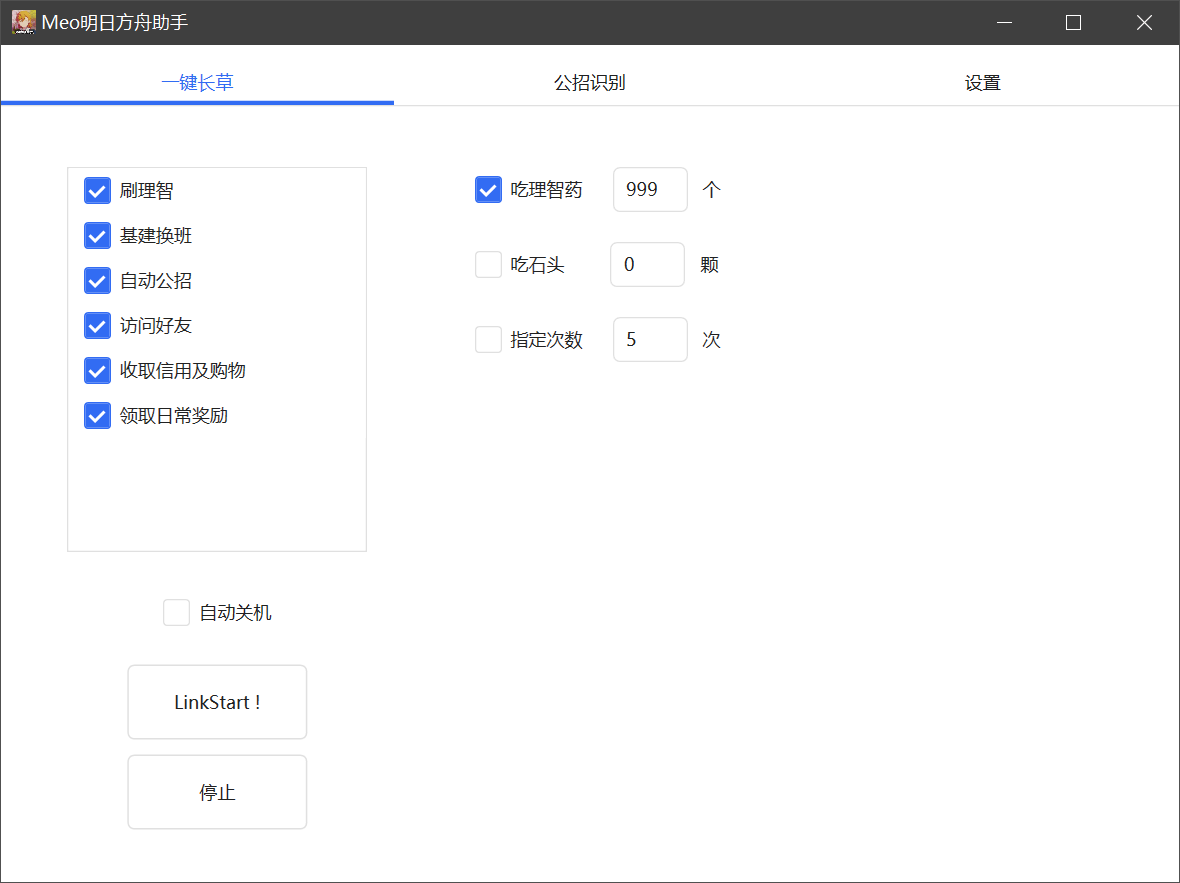
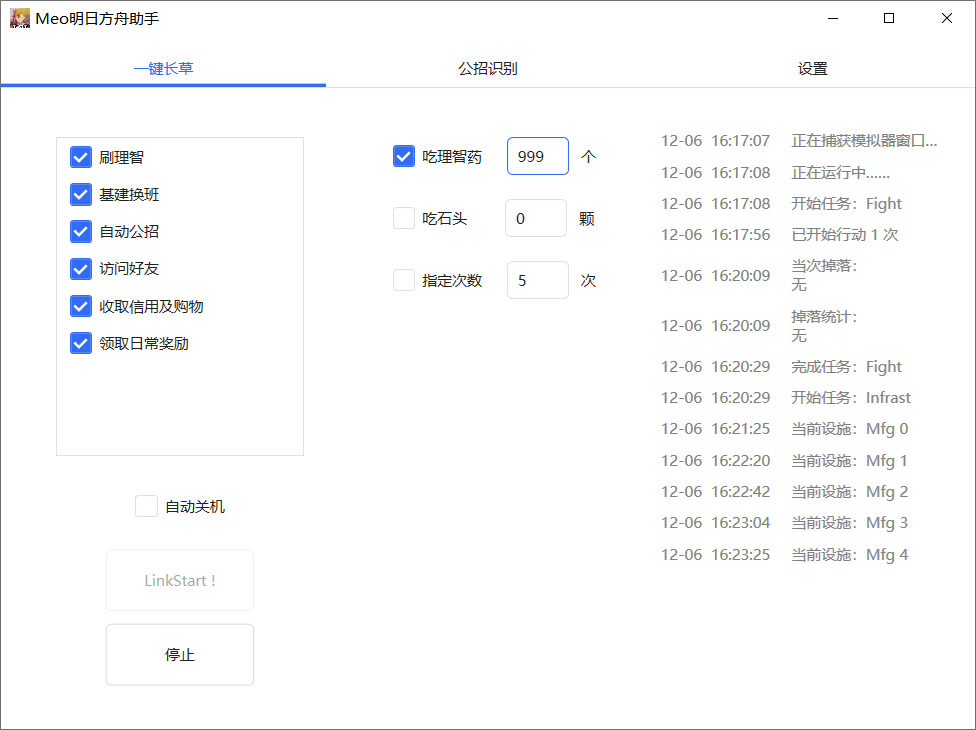
docs.更新README，更新版本号
Former-commit-id: 9efdc4d6f8137cf4ad1691379df55c60908a676b

diff --git a/src/MeoAsstGui/UserControl/AutoRecruitSettingsUserControl.xaml b/src/MeoAsstGui/UserControl/AutoRecruitSettingsUserControl.xaml
@@ -16,7 +16,7 @@
             <CheckBox IsChecked="{Binding RefreshLevel3}" Content="自动刷新3星Tags" VerticalAlignment="Center" Margin="10" />
             <StackPanel Orientation="Horizontal" HorizontalAlignment="Center" VerticalAlignment="Center" Margin="0, 10">
                 <TextBlock Style="{StaticResource TextBlockDefault}"
-                   Text="每次执行时&#xA;的招募次数" Margin="5" VerticalAlignment="Center" />
+                   Text="每次执行时&#xA;最大招募次数" Margin="5" VerticalAlignment="Center" />
                 <TextBox Text="{Binding RecruitMaxTimes}" Margin="5"
                      Width="50" InputMethod.IsInputMethodEnabled="False" />
             </StackPanel>

diff --git a/src/MeoAssistance/Version.h b/src/MeoAssistance/Version.h
@@ -2,5 +2,5 @@
 
 namespace asst
 {
-    constexpr static const char* Version = "v2.2";
+    constexpr static const char* Version = "v2.2.1";
 }

diff --git a/README.md b/README.md
@@ -21,6 +21,10 @@ A game assistance for Arknights
 纯图像识别，非内存挂，全图形化界面，兼容模拟器和安卓设备，开罐即食，绝赞开发中！✿✿ヽ(°▽°)ノ✿  
 <br>
 
+## 功能介绍
+
+废话不多说，看图！
+
 ![界面截图1](images/gui.png)
 ![界面截图2](images/settings1.png)
 ![界面截图3](images/settings2.png)
@@ -29,51 +33,6 @@ A game assistance for Arknights
 
 [稳定版](https://github.com/MistEO/MeoAssistance/releases/latest)  
 [测试版](https://github.com/MistEO/MeoAssistance/releases)
-
-## 功能介绍
-
-- **全自动基建换班（新功能！）**
-    - 自动识别干员技能，自动计算设施内最优解并换班！
-    - 支持如`巫恋组`、`温蒂组`等等所有单设施内组合
-    - 自动识别干员心情并入驻宿舍
-    - 可设置自动使用无人机给制造站/贸易站加速
-    - 可识别赤金、经验书、搓玉，分别使用不同的干员组合
-    - `迷迭香`等跨设施体系正在开发中！
-- 自动刷理智
-    - 支持刷完自动上传[企鹅物流数据统计](https://penguin-stats.cn/)
-    - 支持企鹅物流自定义ID
-    - 界面支持统计掉落数量
-    - 可设置是否吃完理智药及数量
-    - 可设置是否吃石头及数量
-    - 可设置刷的次数（用来刷剿灭啥的）
-    - 可设置刷完自动关机
-    - 支持剿灭模式
-    - 支持打完升级了的情况
-    - 支持代理失败的情况，会自动放弃本次行动
-    - 支持刷完自动截图
-    - 支持掉线后重连，继续刷上次的图
-    - 支持凌晨4点更新后重连，继续刷上次的图
-- 公开招募识别
-    - 自动识别当前招募页所有Tags
-    - 自动计算可能出的干员组合并显示
-    - 自动帮你点击最优解Tags
-    - 自动帮你点击时间9小时
-    - 出5、6星干员弹窗提示
-    - 最新版本已支持2.5新增的`阿`等干员
-- 自动访问好友
-    - 访问完了还会贴心的帮你点进信用商店~
-    - 可设置访问完自动买信用商店的材料
-- 其他优势
-    - 所有点击操作，都是点击按钮内随机位置，并模拟泊松分布（按钮偏中间位置点的概率大，越往旁边点到的概率越小）
-    - 刷理智及访问好友的点击操作，支持设置随机延时，没有封号风险~
-    - 底层算法纯C++开发，并设计了多重的缓存技术，最大限度降低CPU和内存占用
-    - 模拟器窗口可以被遮挡、可以最小化、甚至可以老板键隐藏！即使全屏看视频、玩游戏，也完全不影响软件运行
-    - 软件支持自动更新✿✿ヽ(°▽°)ノ✿
-- 支持多款主流模拟器
-- 兼容安卓手机（USB调试、无线调试）
-- 兼容非16:9分辨率：包括宽屏、方屏，也兼容在游戏设置中的异形屏适配（基建换班功能除外，正在适配中）。但仍推荐使用16:9分辨率
-- 自适应分辨率及屏幕缩放
-- 未来更多功能见[Todo](#Todo)
 
 ### 模拟器支持
 
@@ -85,13 +44,6 @@ A game assistance for Arknights
 
 完美支持。需要在模拟器`设定`-`进阶`中打开`Android调试桥`
 
-#### 蓝叠模拟器Hyper-V版本
-
-支持。
-
-1. 需要在模拟器`设定`-`进阶`中打开`Android调试桥`
-2. 需要在软件`设置`-`连接设置`中添加蓝叠安装目录下`bluestacks.conf`文件的完整路径
-
 #### 夜神模拟器
 
 完美支持
@@ -102,7 +54,7 @@ A game assistance for Arknights
 
 #### 雷电模拟器
 
-勉强支持，雷电总有莫名其妙的问题，可以试试看，不保证能用（
+勉强支持。雷电总有莫名其妙的问题，可以试试看，不保证能用（
 
 #### 逍遥模拟器
 
@@ -110,36 +62,56 @@ A game assistance for Arknights
 
 #### 腾讯手游助手
 
-不支持，新版本的腾讯好像也是自研引擎了，没开放ADB端口。但是测试是能响应Win32 Api的，有需求再做
+不支持。新版本的腾讯好像也是自研引擎了，没开放ADB端口；但是测试是能响应Win32 Api的，有需求再做
 
 #### MuMu手游助手（星云引擎）  
 
-不支持，星云引擎这个版本不支持adb控制，甚至不响应Win32 Api鼠标消息，无解_(:з」∠)_
+不支持。星云引擎这个版本不支持adb控制，甚至不响应Win32 Api鼠标消息，无解_(:з」∠)_
 
-#### 其他模拟器
+#### Win11 WSA
 
-若有其他需要，欢迎给我提[ISSUE](https://github.com/MistEO/MeoAssistance/issues)，会根据情况尽量适配~
+不支持，WSA 目前没有实现 AOSP screencap 需要的接口，无法进行截图。等微软支持后会尝试适配
 
-#### 安卓手机/平板
+#### 蓝叠模拟器Hyper-V版本
 
-部分功能支持，正在开发中……  
-需要下载[谷歌官方ADB](https://dl.google.com/android/repository/platform-tools-latest-windows.zip)，将`platform-tools`文件夹解压到`MeoAsstGui.exe`的同级目录
+支持
+
+1. 在模拟器`设定`-`进阶`中打开`Android调试桥`
+2. 下载[ADB](https://dl.google.com/android/repository/platform-tools-latest-windows.zip)，将`platform-tools`文件夹解压到`MeoAsstGui.exe`的同级目录
+3. 在软件`设置`-`连接设置`中填写蓝叠安装目录下`bluestacks.conf`文件的完整路径
+
+#### 其他模拟器、安卓手机/平板、自定义设备
+
+部分支持
+
+- 下载[ADB](https://dl.google.com/android/repository/platform-tools-latest-windows.zip)，将`platform-tools`文件夹解压到`MeoAsstGui.exe`的同级目录
+- 进入软件`设置`-`连接设置`，填写自定义地址（需要填写IP+端口，例如`127.0.0.1:5555`）
+- 目前非`16:9`分辨率下，刷理智、访问好友、信用商店、公招识别、领任务等功能已初步可用；基建功能暂不可用，正在进一步适配中。但仍推荐使用16:9分辨率，经过的测试验证最多，也最稳定。
 
 ## 使用说明
 
 ### 基本说明
 
-1. 根据上面模拟器支持情况，进行对应的`ADB`相关操作
+1. 根据上面模拟器支持情况，进行对应的操作
 2. 解压压缩包，到**没有中文或特殊符号**的文件夹路径
-3. 第一次运行软件，**请使用管理员权限**打开`MeoAsstGui.exe`。运行过一次后，后续不再需要管理员权限（之后的版本会尝试完全去掉管理员权限）
+3. 第一次运行软件，**请使用管理员权限**打开`MeoAsstGui.exe`。运行过一次后，后续不再需要管理员权限
 4. 开始运行后，所有设置均不可再修改
-5. 运行期间，模拟器窗口可以最小化，全屏玩游戏、看视频等，完全不影响
 
-目前非16:9分辨率下，刷理智、访问好友、公招识别已初步可用，基建功能暂不可用，后期将逐步优化。但仍推荐使用16:9分辨率，经过的测试验证最多，也最稳定。
+### 刷理智
 
-### Tips
-
-若明日方舟处于**蓝色开始按钮**界面，则会刷当前关卡。否则会前往上一次作战的关卡！（自动选关功能正在开发中
+- 若游戏处于**蓝色开始按钮**界面，则会刷当前关卡。否则会前往上次作战的关卡！
+- 主界面上的`吃理智`、`吃石头`、`指定次数`三个选项为短路开关，即三个选项中的任一条件达到，均会视为任务完成，停止刷理智。
+    - 举例1：设置`吃理智药`:`999`、`吃石头`:`10`、`指定次数`:`1`。则在刷完**一次**后，由于满足了`指定次数`:`1`的条件，视为任务完成，停止刷理智。
+    - 举例2：不勾选`吃理智药`、不勾选`吃石头`，设置`指定次数`:`100`。则在当前可用理智全部刷完后（可能只刷了几次），由于满足了`不吃理智药`、`不吃石头`的条件，视为任务完成，停止刷理智。
+- 其他优势
+    - 支持刷完自动上传[企鹅物流数据统计](https://penguin-stats.cn/)
+    - 支持企鹅物流自定义ID
+    - 支持统计掉落数量
+    - 支持剿灭模式
+    - 支持打完升级了的情况
+    - 支持代理失败的情况，会自动放弃本次行动
+    - 支持掉线后重连，继续刷上次的图
+    - 支持凌晨4点更新后重连，继续刷上次的图
 
 ### 基建换班
 
@@ -149,32 +121,35 @@ A game assistance for Arknights
 
 #### 宿舍入驻心情阈值
 
-计算心情进度条的百分比；心情小于该阈值的干员，不会再去上班，直接进驻宿舍
+识别心情进度条的百分比；心情小于该阈值的干员，不会再去上班，直接进驻宿舍
 
 #### 特殊说明
 
-- 基建换班目前均为单设施最优解，但非跨设施的全局最优解，例如`迷迭香`这类多个设施间联动的体系，都是不支持的
+- 基建换班目前均为单设施最优解，但非跨设施的全局最优解。例如：`巫恋 龙舌兰`、`红云 稀音`等这类单设施内的组合，都是可以正常识别并使用的；`迷迭香`、`红松骑士团`这类多个设施间联动的体系，目前都是不支持的
 - 会客室仅缺一个线索时，会选择对应流派的干员；否则会选择通用干员
+- 会客室暂不支持送出线索，当线索满时可能会处理异常。建议自动换班完成后自己再去看下会客室的情况
 - 控制中枢策略太过复杂，目前只考虑`阿米娅`、`诗怀雅`、`凯尔希`、`彩虹小队`及其他心情+0.05的干员，后续逐步优化
+
+### 信用商店随缘买
+
+从左到右依次买，但不会买`碳`和`家具零件`。有需要的同学可自行修改`resource\tasks.json`中`CreditShop-NotToBuy`.`text`字段，自定义不买的物品。后续版本会尝试开放界面选项
 
 ### 公开招募识别
 
-**请注意：公招识别和自动公招是两个独立的功能！**
+- 公招识别和自动公招是两个独立的功能！
+- 公招识别需要手动打开有公招Tag选择的界面再使用
 
-1. 明日方舟打开公开招募，有Tag选择的界面
-2. 软件勾选你需要的选项，点击"开始识别"
-3. 请检查识别结果是否正确，自行判断是否确定开始招募
+### 其他乱七八糟的说明
 
-### 连接自定义模拟器端口，或安卓手机/平板
-
-1. 下载[ADB程序](https://dl.google.com/android/repository/platform-tools-latest-windows.zip)，将`platform-tools`文件夹解压到`MeoAsstGui.exe`的同级目录
-2. 使用USB有线连接安卓手机和电脑
-3. 请在手机`设置`-`开发者选项`中打开`USB调试`、`USB调试（安全设置）`两个选项。具体操作方式不同品牌手机各不相同，请自行百度查询
-4. 请手动修改`resource\config.json`文件中：
-    1. `options`.`connectType`字段值为`1`
-    2. `emulator`.`Custom`.`adb`.`addresses`字段填写为要连接的地址，请注意这是个数组，会以此尝试所有的（若不填写，或`addresses`中所有的都没连上，则会使用`adb devices`自动查找）
-
-目前非16:9分辨率下，刷理智、访问好友、公招识别已初步可用，基建功能暂不可用，后期将逐步优化。但仍推荐使用16:9分辨率，经过的测试验证最多，也最稳定。
+- 公招出5、6星会有弹窗提示
+- 主界面上要执行的任务，是可以拖动改变顺序的。同样设置中基建换班的顺序，也是可以拖动改变的
+- 活动关卡掉落识别到的`未知材料`，一般就是活动商店的票据
+- 新的活动关卡刚上线的时候可能无法正常识别，一般一两天内软件会自动OTA更新资源，更新后即可正常识别
+- 所有点击操作，都是点击按钮内随机位置，并模拟泊松分布（按钮偏中间位置点的概率大，越往旁边点到的概率越小）
+- `resource\config.json`中有一些自定义选项，可以尝试根据自己的需要进行修改
+- 底层算法纯C++开发，并设计了多重的缓存技术，最大限度降低CPU和内存占用
+- 软件支持自动更新✿✿ヽ(°▽°)ノ✿ 推荐非杠精的同学使用测试版，一般来说更新快且bug少（什么MIUI (╯‵□′)╯︵┻━┻
+- [反馈问题](https://github.com/MistEO/MeoAssistance-Arknights/issues)最好可以带上目录下的`asst.log`日志文件，并说下使用的模拟器版本，感谢！
 
 ## Todo
 
@@ -196,7 +171,7 @@ A game assistance for Arknights
     - [x] `激进换班模式`
     - [ ] 自定义换班（手动修改配置文件）
     - [ ] 宿舍换班支持加速心情的干员识别
-    - [ ] 贸易站无人机支持设置给经验书还是赤金
+    - [x] 贸易站无人机支持设置给经验书还是赤金
 - [ ] 使用GPU进行识别的版本
 - [x] 企鹅物流汇报，自定义ID
 - [ ] 指定刷某种材料xx个
@@ -221,6 +196,7 @@ A game assistance for Arknights
 - WPF MVVW框架：[Stylet](https://github.com/canton7/Stylet)
 - WPF控件库：[HandyControl](https://github.com/HandyOrg/HandyControl)
 - C# JSON库: [Newtonsoft.Json](https://github.com/JamesNK/Newtonsoft.Json)
+- 下载器：[aria2](https://github.com/aria2/aria2)
 
 ### 数据源
 
@@ -233,13 +209,16 @@ A game assistance for Arknights
 - 非常感谢 [tcyh035](https://github.com/tcyh035) 帮忙设计重构图形界面
 - 非常感谢 [GengGode](https://github.com/GengGode) 和 [DbgDebug](https://github.com/DbgDebug) 提供图像算法思路并协助验证
 - 非常感谢 [LoveLoliii](https://github.com/LoveLoliii) 提供公开招募算法及数据、部分功能逻辑思路
-- 感谢[AAH](https://github.com/ninthDevilHAUNSTER/ArknightsAutoHelper)的大佬们协助提供部分图像、操作思路
+- 感谢[内卷地狱](https://jq.qq.com/?_wv=1027&k=ypbzXcA2)的大佬们提供的各种协助支持
+- 感谢[LmeSzinc](https://github.com/LmeSzinc)提供的界面样式参考，~~虽然我抄了个四不像orz~~
 - 感谢参与软件测试、提bug的小伙伴们~
 - ~~感谢[B站直播间](https://live.bilibili.com/2808861)的小伙伴们陪我弹幕吹水~~
 
 ## 广告
 
 [B站直播间](https://live.bilibili.com/2808861)：每晚直播敲代码，近期很长一段时间应该都是在写本助手软件  
-[QQ群](https://jq.qq.com/?_wv=1027&k=ypbzXcA2)：欢迎加入~  
+[QQ群：内卷地狱](https://jq.qq.com/?_wv=1027&k=ypbzXcA2)：欢迎加入~  
 
-另：作者前端苦手，寻大佬帮忙一起写界面，继续现在的WPF也行，用electron或者别的重写也行，球球了QAQ
+如果觉得软件对你有帮助，点个Star吧！~（网页最上方右上角的小星星），这就是对我最大的支持了！
+
+PS：作者前端苦手，现在的界面（WPF）基本是现学现卖的，写得很烂，希望有大佬能帮忙提点PR修改修改，感激不尽_(:з」∠)_
